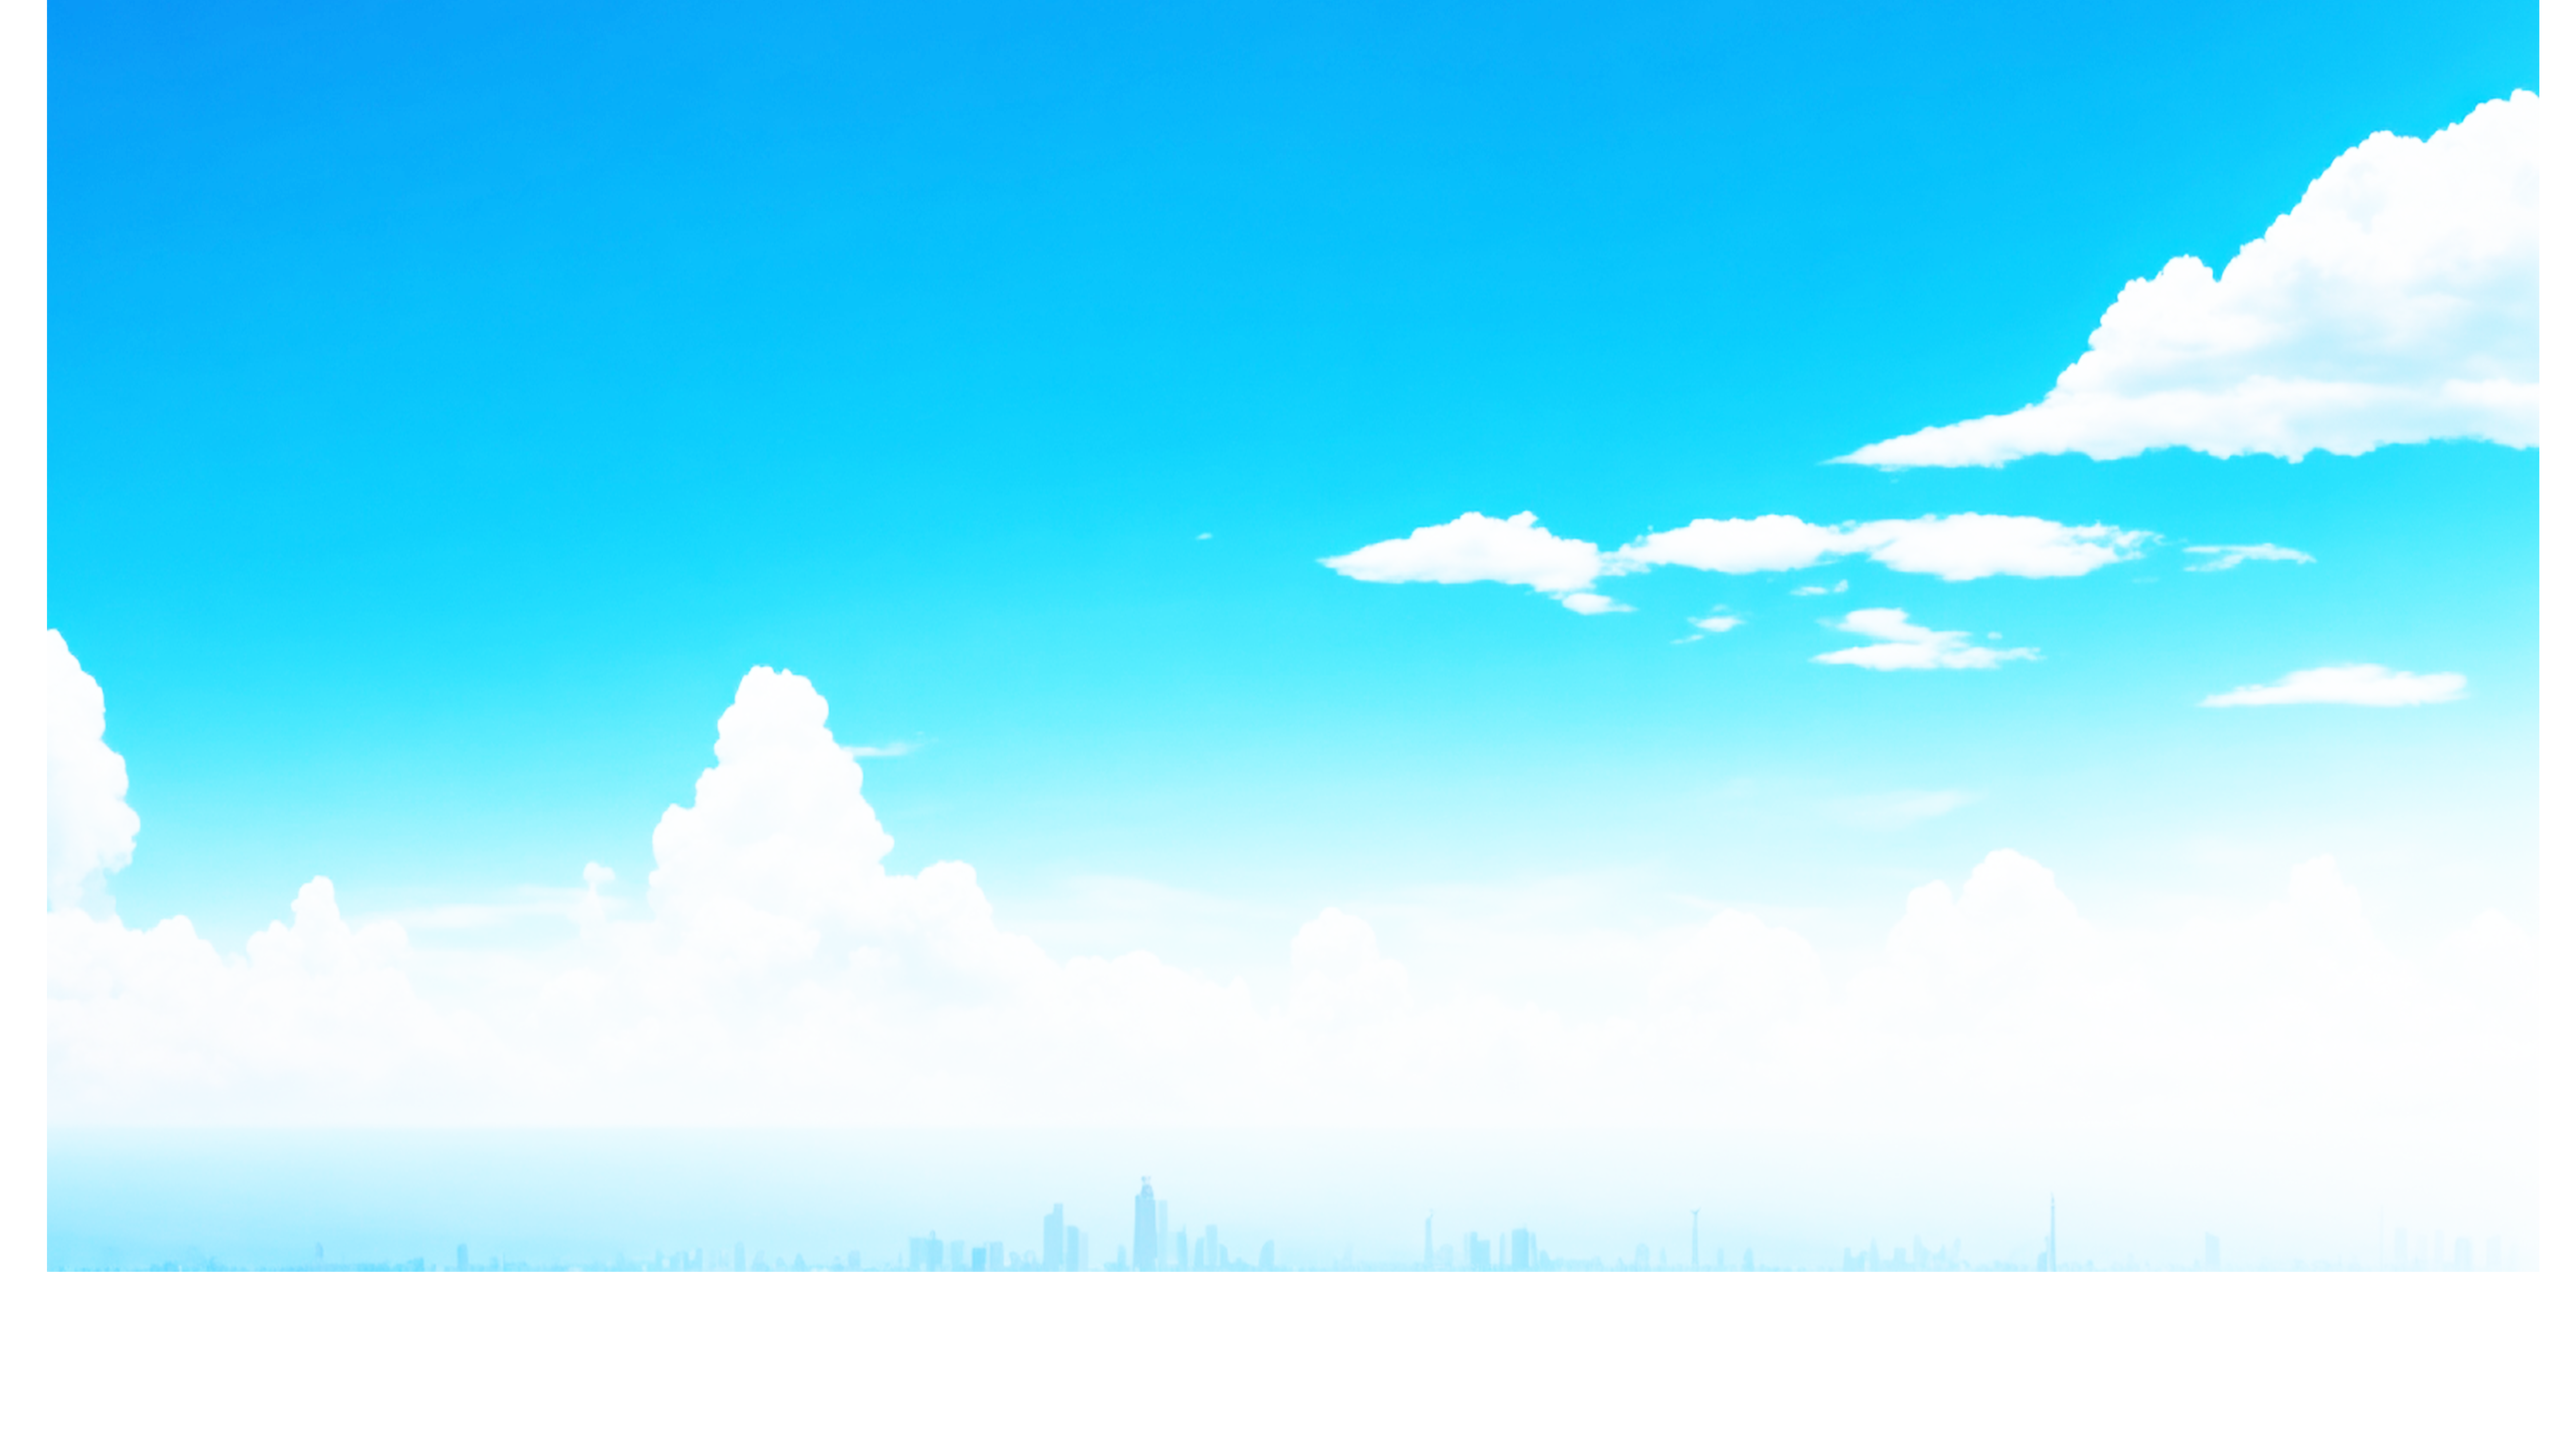
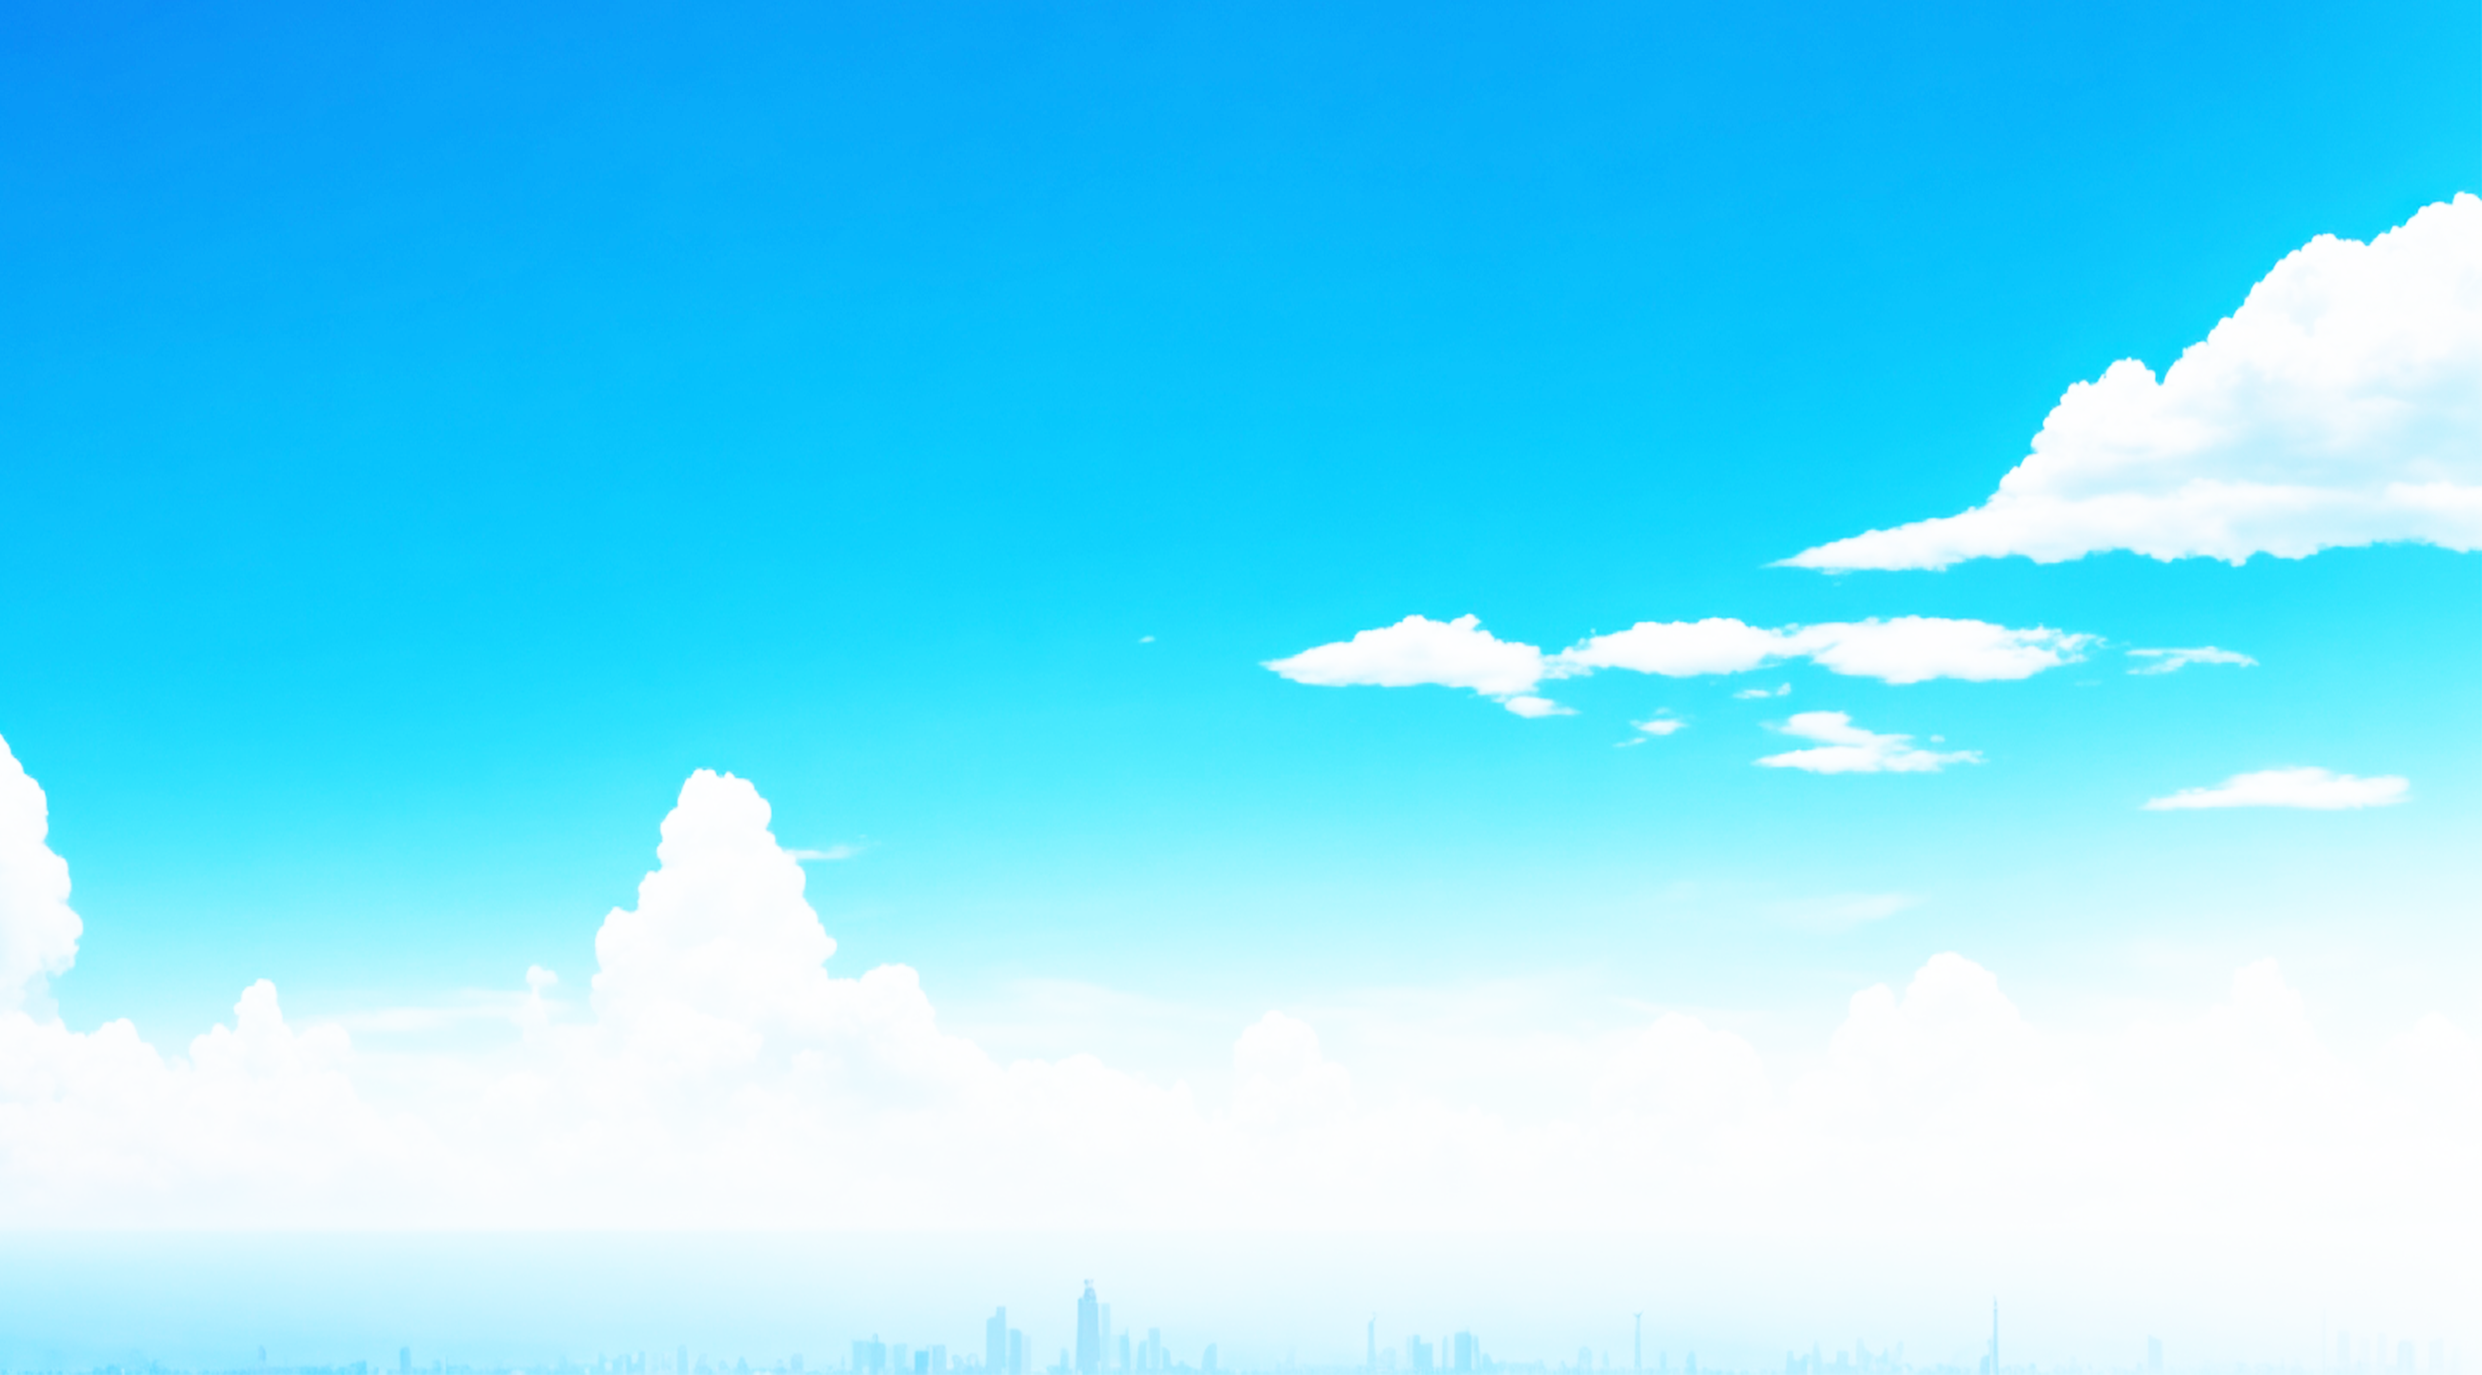
save

diff --git a/styles.css b/styles.css
@@ -59,8 +59,10 @@ body {
 
 @media (max-width: 480px){
     .base{
-        width:560px;
-        left:-100px;
+        width:100vw;
+        height: 120vh;
+        /* left:10px; */
+        object-fit: cover;
         /* display:none; */
     }
 
@@ -70,7 +72,7 @@ body {
         width:80vw;
         animation: myfirst 5s;
         animation-fill-mode: forwards;
-        /* display:none; */
+        display:none;
     }
 
     @keyframes myfirst {
@@ -82,18 +84,18 @@ body {
     }
 
     .middle{
-        width:560px;
-        left:-100px;
+        width:545px;
+        left:-120px;
         height:95vh;
         top:150px;
-        /* display:none; */
+        display:none;
     }
 
     .front{
         height:115vh;
         width:120vw;
         left:-50px;
-        /* top:5px; */
+        top:5px;
         display:none;
     }
 
